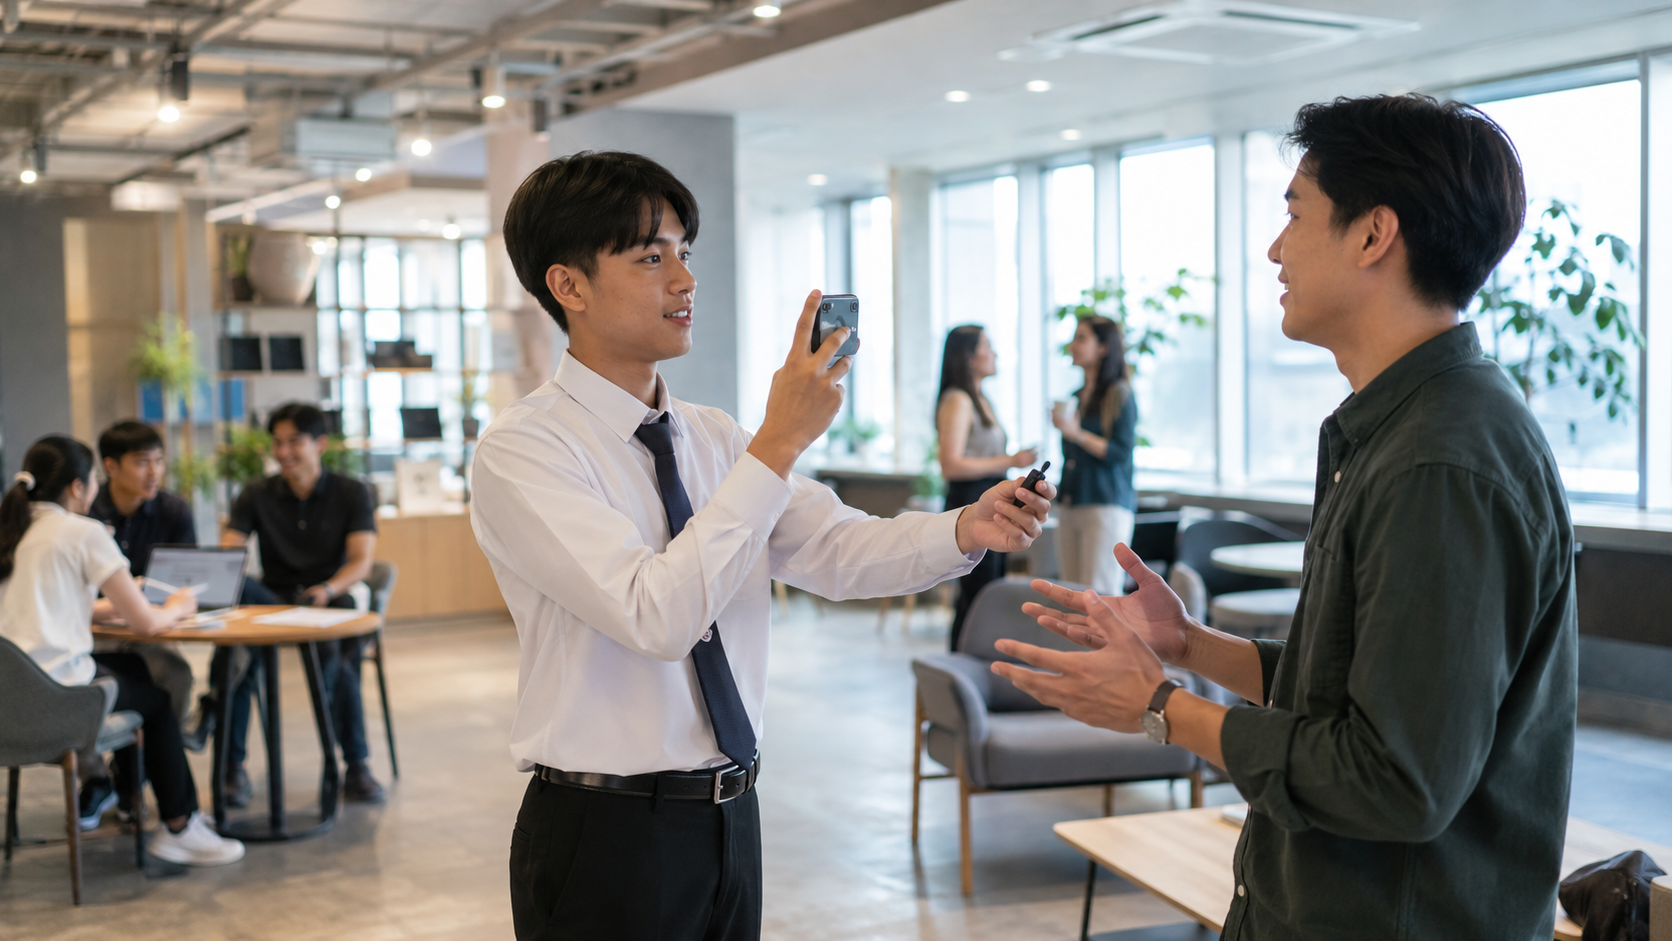
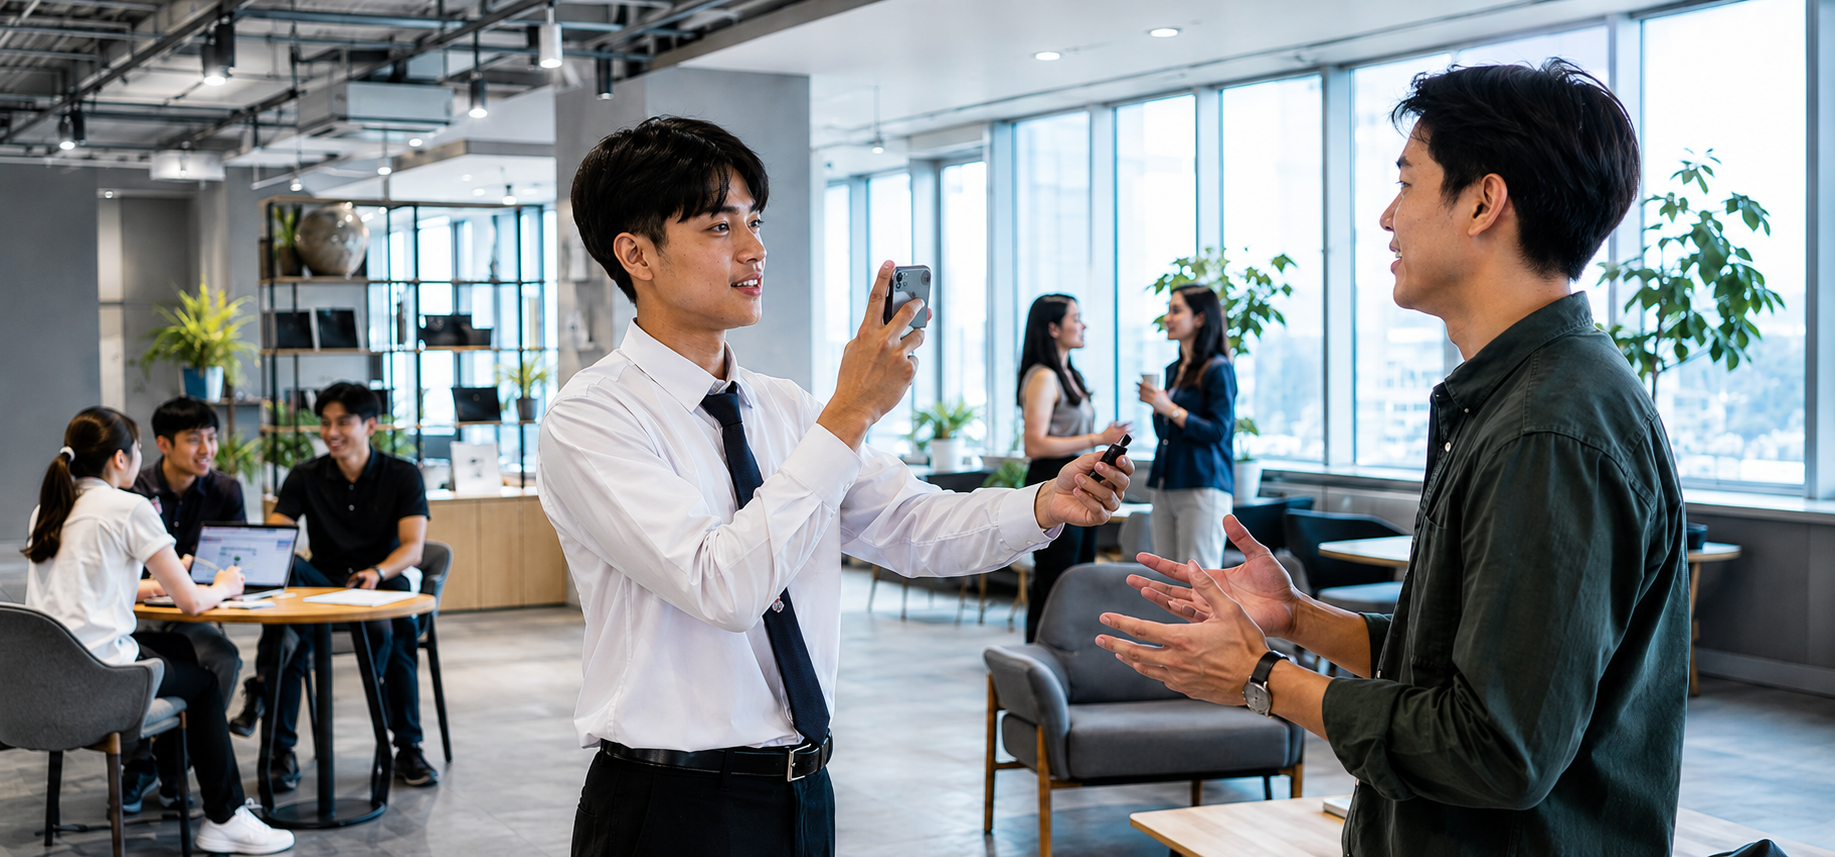
feat: new HR project card photo; add Xcellent room photo + Xtra room gallery in meeting rooms

diff --git a/js/pages/meeting-rooms.js b/js/pages/meeting-rooms.js
@@ -37,15 +37,7 @@ export const renderMeetingRooms = () => pageWrap({
 
       <div class="mr-v2-main anim-up" data-delay="80">
         <div class="mr-v2-vis">
-          <!-- [REPLACE: ใส่รูปห้อง Xcellent ชั้น 1 ที่นี่ · แนะนำ 16:9 landscape · 960×540px ขึ้นไป] -->
-          <div class="mr-room-img-placeholder" aria-label="ภาพห้องประชุม Xcellent">
-            <svg viewBox="0 0 48 48" width="40" height="40" fill="none" stroke="currentColor" stroke-width="1.5" stroke-linecap="round" opacity="0.4">
-              <rect x="4" y="8" width="40" height="32" rx="4"/>
-              <circle cx="18" cy="20" r="5"/>
-              <path d="M4 36l10-10 6 6 8-10 16 14"/>
-            </svg>
-            <span>Meeting Room Photo</span>
-          </div>
+          <img class="mr-room-photo" src="./static/meeting-room-xcellent.jpg" alt="ภายในห้องประชุม Xcellent พร้อมโต๊ะประชุมและจอ" loading="lazy" style="object-position: center 70%;" />
           <div class="mr-v2-vis-cap">${I.people}&ensp;6–8 ท่าน</div>
         </div>
         <div class="mr-v2-info">
@@ -123,7 +115,14 @@ export const renderMeetingRooms = () => pageWrap({
 
         <div class="mr-v2-card anim-up" data-delay="300">
           <div class="mr-v2-card-vis">
-            <img class="mr-room-photo mr-room-photo-sm" src="./static/meeting-room-xtra.jpg" alt="มุมหน้าห้อง Xtra Room พร้อมป้ายห้องและจอจองห้อง" loading="lazy" />
+            <div class="mr-room-gallery" aria-label="รูปห้อง Xtra Room">
+              <img class="mr-room-photo mr-room-photo-sm" src="./static/meeting-room-xtra.jpg" alt="มุมหน้าห้อง Xtra Room พร้อมป้ายห้องและจอจองห้อง" loading="lazy" />
+              <img class="mr-room-photo mr-room-photo-sm" src="./static/meeting-room-xtra-inside.jpg" alt="ภายในห้อง Xtra Room" loading="lazy" />
+            </div>
+            <div class="mr-room-gallery-dots" aria-hidden="true">
+              <span></span>
+              <span></span>
+            </div>
           </div>
           <div class="mr-v2-card-body">
             <div class="mr-v2-card-head">

diff --git a/js/pages/home.js b/js/pages/home.js
@@ -57,7 +57,7 @@ export var renderHome = () => `
       </article>
 
       <article class="ex-must-card fdb-reveal fdb-delay1">
-        <div class="ex-must-photo"><img src="./static/card-project-photo.png" alt="" loading="eager" style="object-position:center 35%" /></div>
+        <div class="ex-must-photo"><img src="./static/card-project-photo.png" alt="" loading="eager" style="object-position:center 45%" /></div>
         <div class="ex-must-content">
           <div class="ex-must-header">
             <span class="ex-must-label">02 · HR Project</span>

diff --git a/bundle.js b/bundle.js
@@ -439,7 +439,7 @@
       </article>
 
       <article class="ex-must-card fdb-reveal fdb-delay1">
-        <div class="ex-must-photo"><img src="./static/card-project-photo.png" alt="" loading="eager" style="object-position:center 35%" /></div>
+        <div class="ex-must-photo"><img src="./static/card-project-photo.png" alt="" loading="eager" style="object-position:center 45%" /></div>
         <div class="ex-must-content">
           <div class="ex-must-header">
             <span class="ex-must-label">02 \xB7 HR Project</span>
